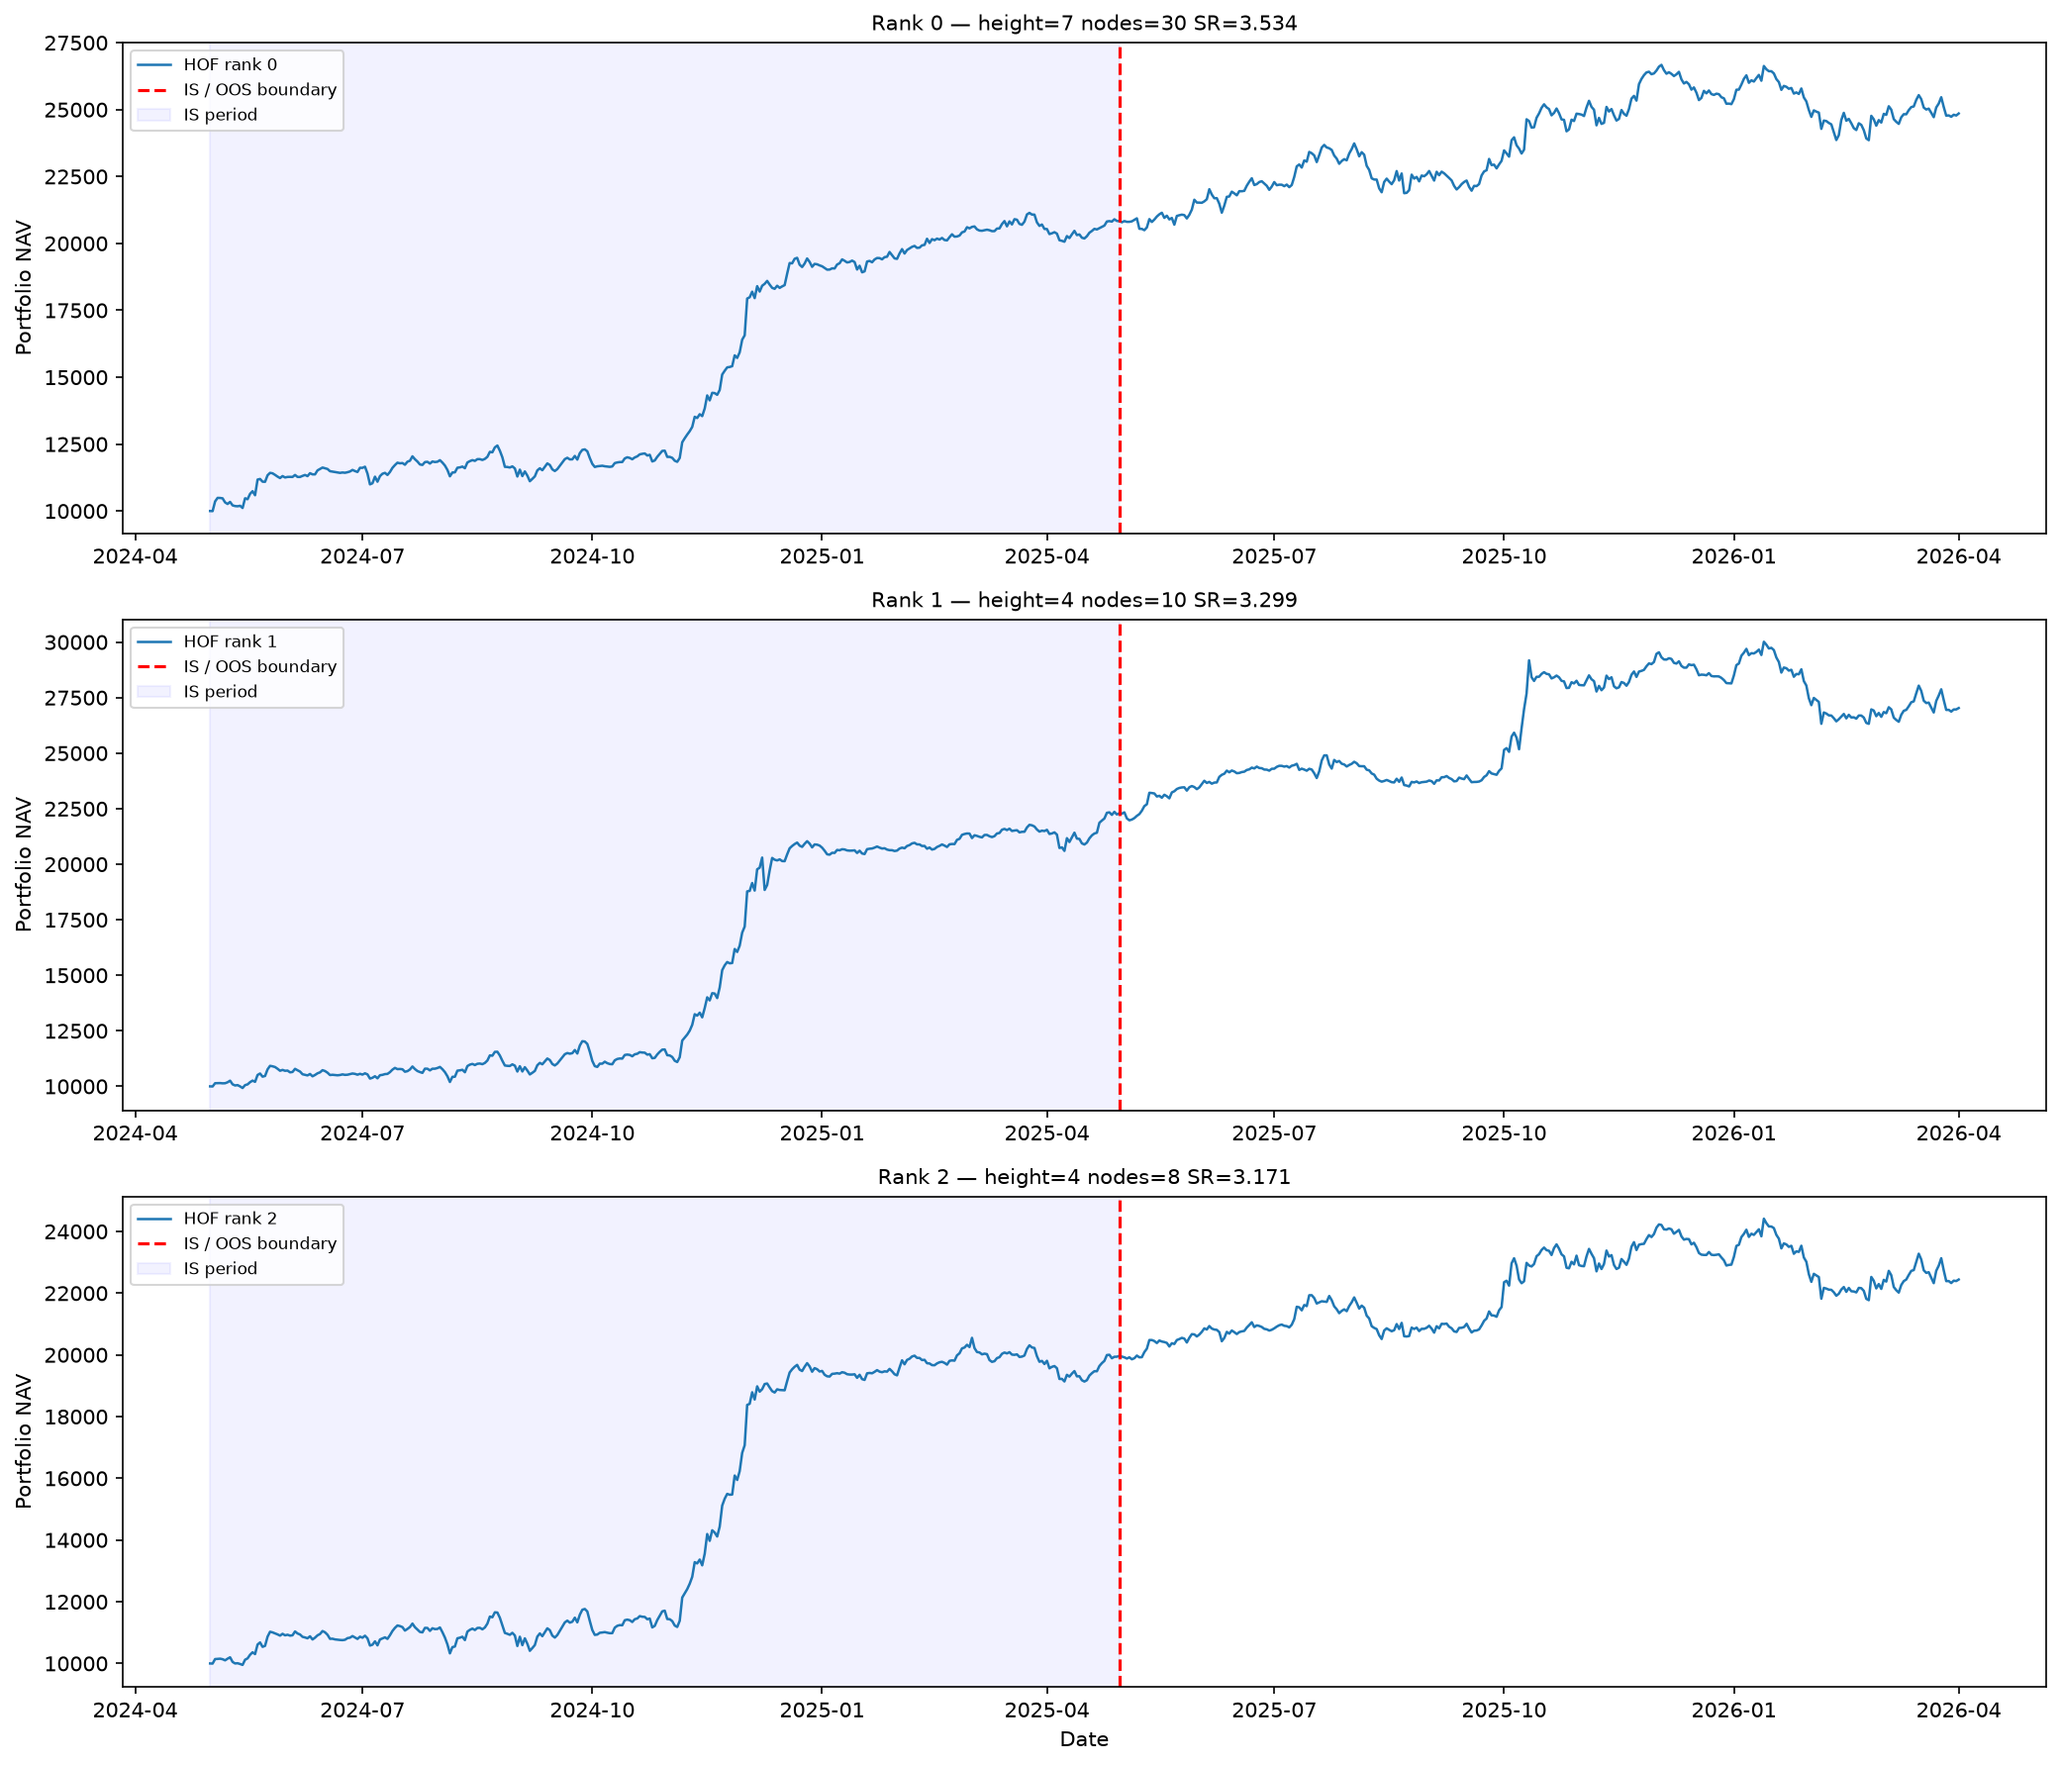
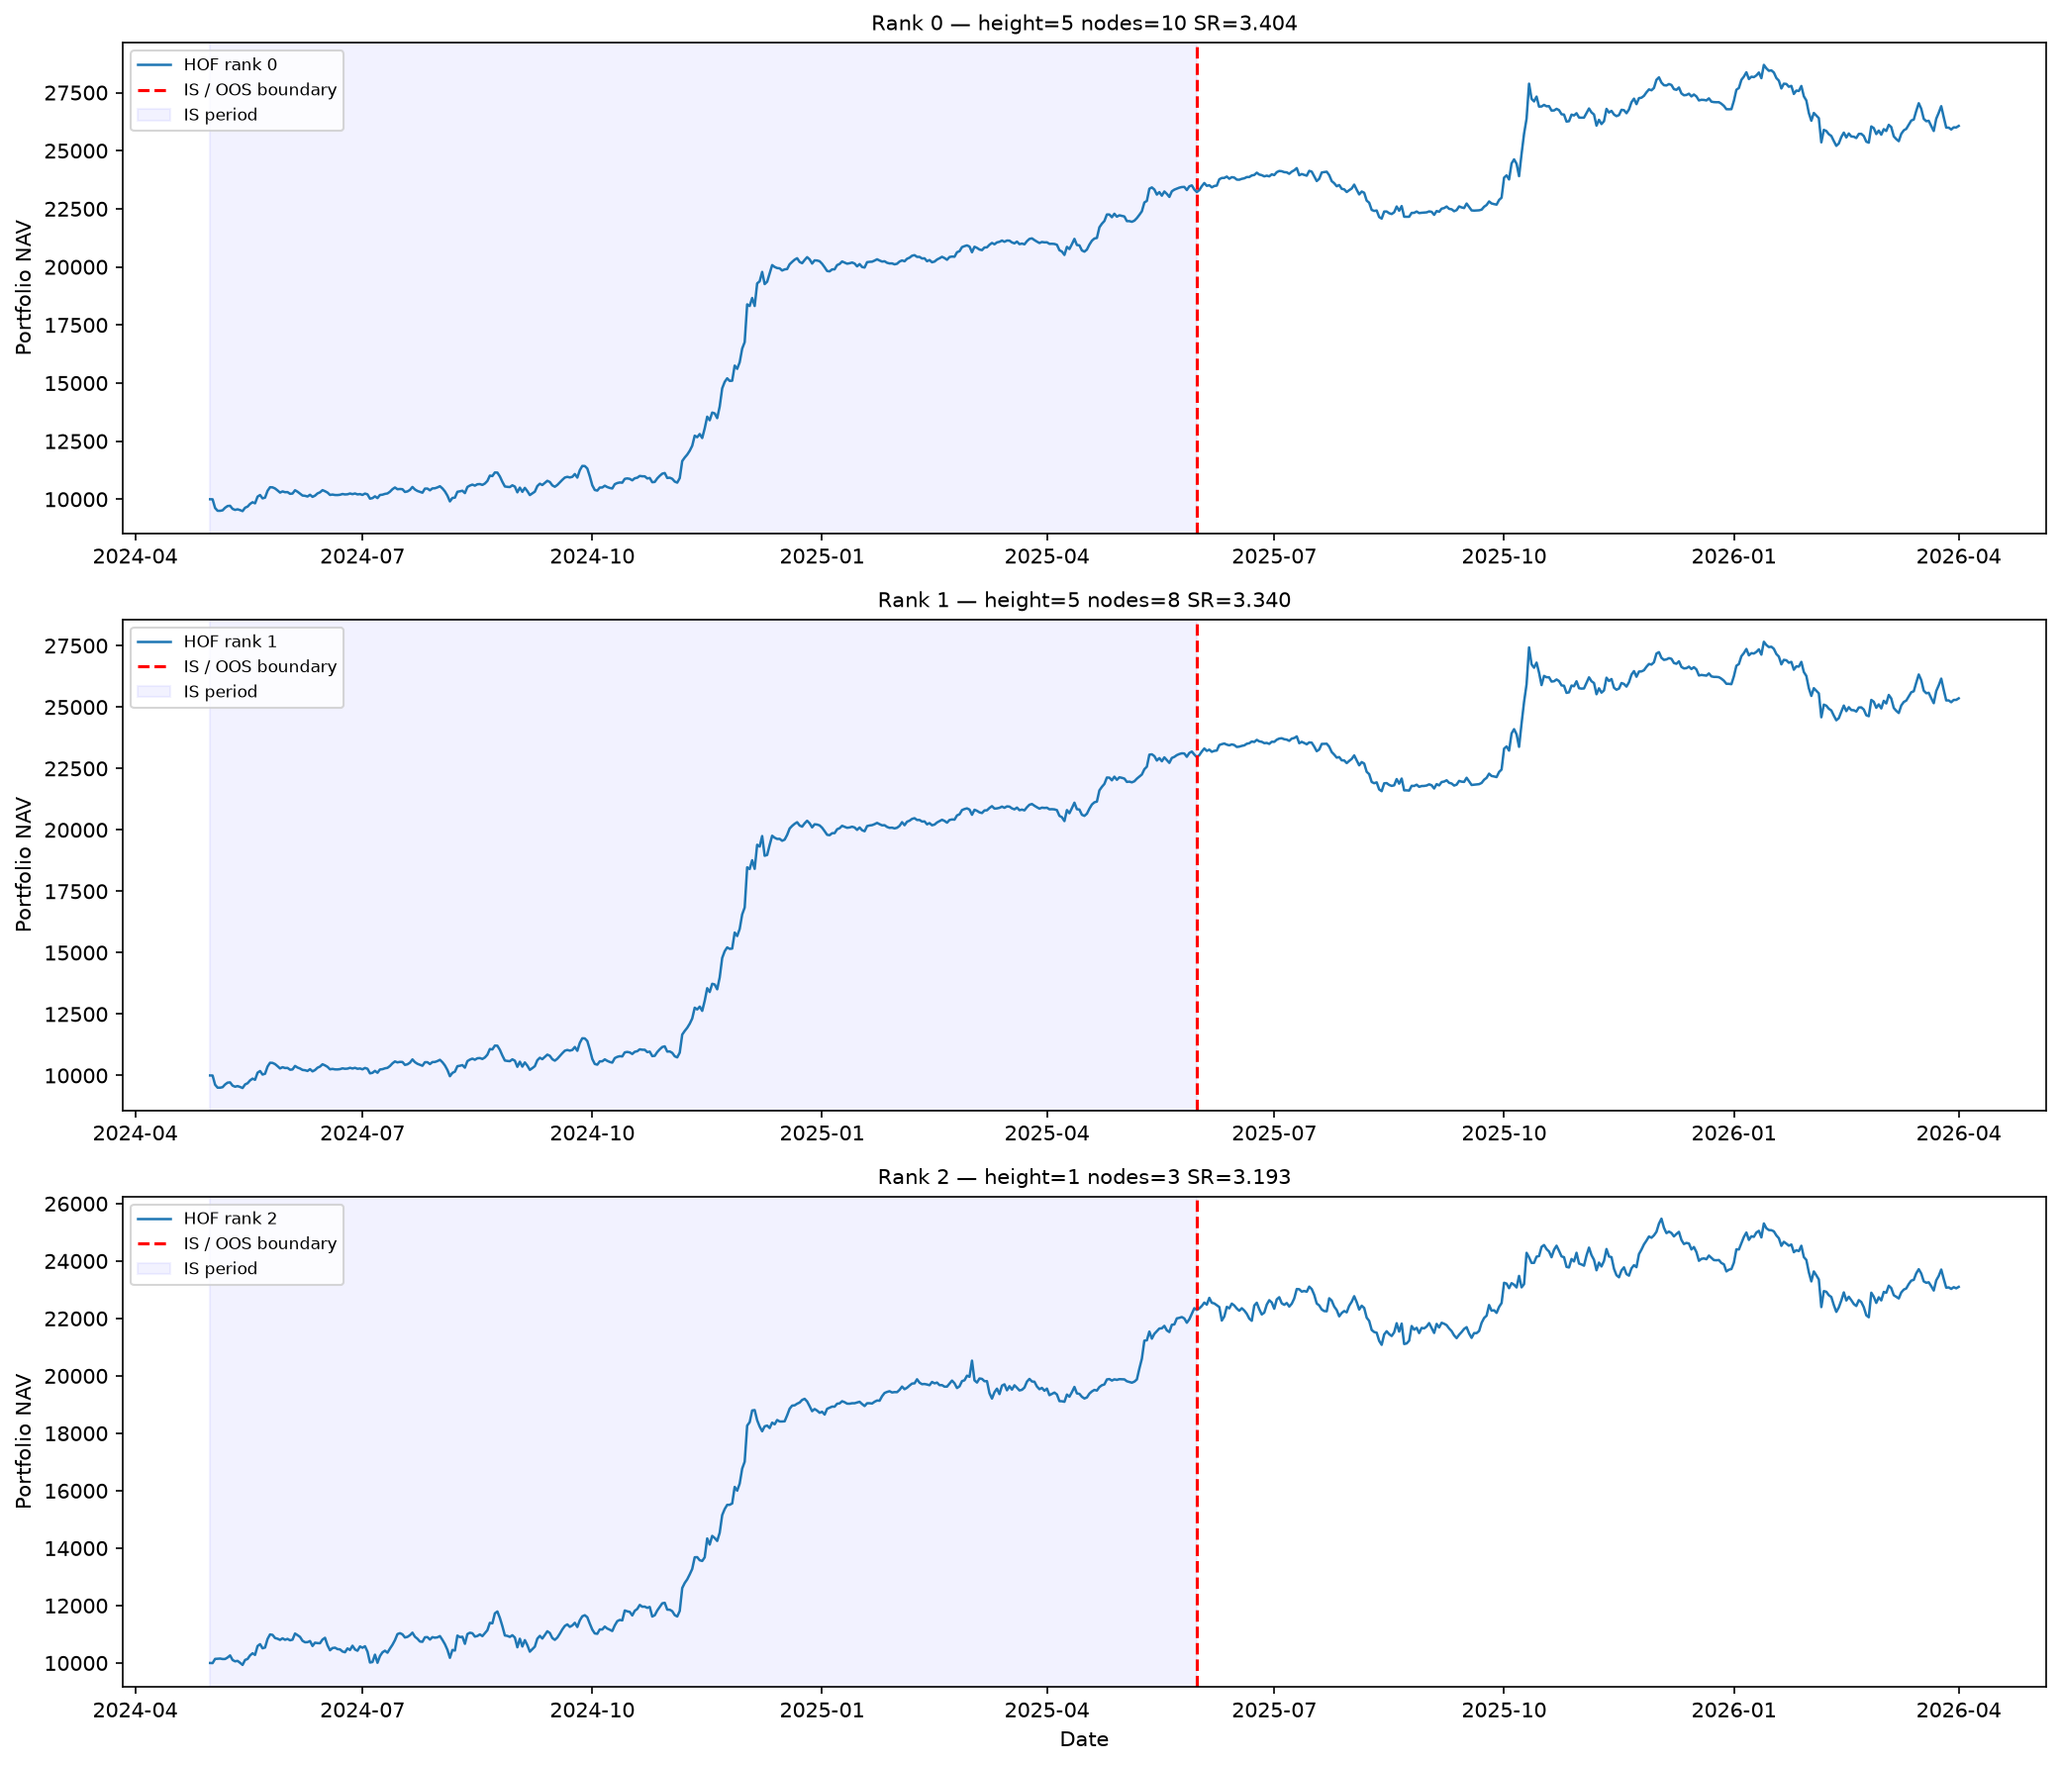
fix(vgp): obv_signal was z-scored with full-sample statistics
Found by reviewing the project's central claim rather than trusting it.
CLAUDE.md #2 says a signal at time t may use only data from t-1 and
earlier, and #6 says the OOS holdout is touched once. obv_signal
breached both:

    obv_raw = (sign(ret_1d) * volume).cumsum()
    obv_signal = (obv_raw - obv_raw.mean()) / obv_raw.std()

Those are whole-series constants, and FeatureEngine.fit_transform()
runs once on the full 2024-2026 panel before any walk-forward split, so
every training window was normalised using statistics that include
every OOS period.

Measured severity, because the characterisation matters more than the
alarm: mild. An affine transform with panel-wide constants injects no
bar-level future information. obv_signal's correlation with a pure time
index was 0.522 — log_close, which is uncontaminated, is 0.532 — so it
was not acting as a calendar proxy, and train/OOS value ranges
overlapped rather than being disjoint, so an in-sample threshold was not
uniformly true or false out-of-sample. It also biased toward FINDING
skill, so it cannot have manufactured the negative results already
reported; those stand as conservative.

Now a trailing 20-bar z-score: causal by construction, and it drops the
non-stationarity of an unbounded cumsum. Time-index correlation falls
from 0.522 to 0.113, panel shape unchanged at 701 x 12 x 21 so the
universe stays comparable.

Five tests assert the structural invariant that should have guarded
[…]

diff --git a/vector_genetic_programming/tests/test_data_pipeline.py b/vector_genetic_programming/tests/test_data_pipeline.py
@@ -456,3 +456,112 @@ def test_feature_engine_drops_short_history_assets(synthetic_ohlcv_cache, block_
         f"{arr.shape[2]} — metadata and data disagree"
     )
     assert len(engine.retained_assets_) + len(engine.dropped_assets_) == len(ohlcv)
+
+
+# ---------------------------------------------------------------------------
+# DATA-05: every feature must be CAUSAL — computable from the past alone.
+#
+# This is the structural form of the no-lookahead invariant (CLAUDE.md #2). If
+# a feature at index i depends only on bars <= i, then truncating the series
+# after i cannot change it. Any use of a full-sample statistic — a global mean,
+# std, min or max — breaks that immediately.
+#
+# It is what should have caught the real defect: obv_signal was z-scored with
+# obv_raw.mean() and obv_raw.std() over the whole series, and since
+# FeatureEngine.fit_transform() runs once on the full panel before any
+# walk-forward split, those constants included every OOS period. A correlation
+# proxy did not catch it; this does, exactly and for all twelve features at
+# once.
+# ---------------------------------------------------------------------------
+
+
+def _one_asset(n: int = 400, seed: int = 5) -> pd.DataFrame:
+    rng = np.random.default_rng(seed)
+    idx = pd.date_range("2024-01-01", periods=n, freq="D")
+    close = 100.0 * np.exp(np.cumsum(rng.standard_normal(n) * 0.02))
+    return pd.DataFrame(
+        {
+            "open": close * (1 + rng.standard_normal(n) * 0.001),
+            "high": close * (1 + np.abs(rng.standard_normal(n)) * 0.01),
+            "low": close * (1 - np.abs(rng.standard_normal(n)) * 0.01),
+            "close": close,
+            "volume": np.abs(rng.standard_normal(n)) * 1e6 + 1e5,
+        },
+        index=idx,
+    )
+
+
+def test_every_feature_is_causal_under_truncation():
+    """Truncating the series must not change any earlier feature value.
+
+    Checks each of the 12 features independently so a failure names the
+    culprit rather than just reporting that something leaks.
+    """
+    from vgp.data.feature_engine import _compute_features
+
+    df = _one_asset()
+    k = 300                                  # truncate here
+    full = _compute_features(df)
+    trunc = _compute_features(df.iloc[:k])
+
+    assert list(full.columns) == list(trunc.columns)
+
+    leaky = []
+    for col in full.columns:
+        a = full[col].iloc[:k].to_numpy(dtype=np.float64)
+        b = trunc[col].to_numpy(dtype=np.float64)
+        both_nan = np.isnan(a) & np.isnan(b)
+        if not np.allclose(a[~both_nan], b[~both_nan], rtol=0, atol=0,
+                           equal_nan=True):
+            worst = np.nanmax(np.abs(a[~both_nan] - b[~both_nan]))
+            leaky.append(f"{col} (max abs diff {worst:.3e})")
+
+    assert not leaky, (
+        "these features change when future bars are removed, so they use "
+        "future information: " + "; ".join(leaky)
+    )
+
+
+@pytest.mark.parametrize("k", [150, 250, 350])
+def test_causality_holds_at_several_truncation_points(k):
+    """Not just one cut — a leak could hide at a particular boundary."""
+    from vgp.data.feature_engine import _compute_features
+
+    df = _one_asset(seed=11)
+    full = _compute_features(df)
+    trunc = _compute_features(df.iloc[:k])
+
+    for col in full.columns:
+        a = full[col].iloc[:k].to_numpy(dtype=np.float64)
+        b = trunc[col].to_numpy(dtype=np.float64)
+        both_nan = np.isnan(a) & np.isnan(b)
+        np.testing.assert_allclose(
+            a[~both_nan], b[~both_nan], rtol=0, atol=0,
+            err_msg=f"{col} is not causal at truncation k={k}",
+        )
+
+
+def test_appending_future_bars_does_not_change_past_features():
+    """The same invariant from the other direction, which is how live use works.
+
+    Tomorrow's bar arriving must not revise today's feature value. A global
+    normalisation silently rewrites the entire history every time new data
+    lands, so a backtest and a live system would disagree about the past.
+    """
+    from vgp.data.feature_engine import _compute_features
+
+    df = _one_asset(n=500, seed=21)
+    today = _compute_features(df.iloc[:400])
+    tomorrow = _compute_features(df)
+
+    for col in today.columns:
+        a = today[col].to_numpy(dtype=np.float64)
+        b = tomorrow[col].iloc[:400].to_numpy(dtype=np.float64)
+        both_nan = np.isnan(a) & np.isnan(b)
+        np.testing.assert_allclose(
+            a[~both_nan], b[~both_nan], rtol=0, atol=0,
+            err_msg=(
+                f"{col} was revised by the arrival of future bars — a backtest "
+                f"and a live system would disagree about the past"
+            ),
+        )

diff --git a/vector_genetic_programming/vgp/data/feature_engine.py b/vector_genetic_programming/vgp/data/feature_engine.py
@@ -268,13 +268,30 @@ def _compute_features(df: pd.DataFrame) -> pd.DataFrame:
     vol_ratio_20d = volume / vol_mean_20
     vol_ratio_20d = vol_ratio_20d.where(vol_mean_20 != 0.0, other=1.0)
 
-    # OBV signal: sign(ret_1d) * volume, cumulated, then z-score normalised.
+    # OBV signal: sign(ret_1d) * volume, cumulated, then z-scored over a
+    # TRAILING window.
+    #
+    # This was previously normalised with obv_raw.mean() and obv_raw.std() over
+    # the whole series. Because FeatureEngine.fit_transform() runs once on the
+    # full panel before any walk-forward split, those constants were computed
+    # from data that includes every OOS period — a train/test contamination,
+    # and a breach of the no-lookahead invariant as written (CLAUDE.md #2, #6).
+    #
+    # The leak was mild: an affine transform with panel-wide constants injects
+    # no bar-level future information, obv_signal's correlation with a pure
+    # time index was 0.522 (log_close, which is uncontaminated, is 0.532), and
+    # train/OOS value ranges overlapped rather than being disjoint. It also
+    # biased toward FINDING skill, so it cannot have manufactured the negative
+    # results. None of that makes it correct.
+    #
+    # A trailing window is causal by construction and also removes the
+    # non-stationarity of an unbounded cumsum.
     obv_raw = (np.sign(close.pct_change(1)) * volume).cumsum()
-    obv_std = obv_raw.std()
-    if obv_std == 0.0 or np.isnan(obv_std):
-        obv_signal = pd.Series(0.0, index=close.index)
-    else:
-        obv_signal = (obv_raw - obv_raw.mean()) / obv_std
+    obv_mean = obv_raw.rolling(20).mean()
+    obv_std = obv_raw.rolling(20).std()
+    obv_signal = (obv_raw - obv_mean) / obv_std
+    # Flat or degenerate trailing window -> no information, not a divide-by-zero
+    obv_signal = obv_signal.where((obv_std != 0.0) & obv_std.notna(), other=0.0)
 
     # -- Assemble in canonical order --------------------------------
     feat = pd.DataFrame(
